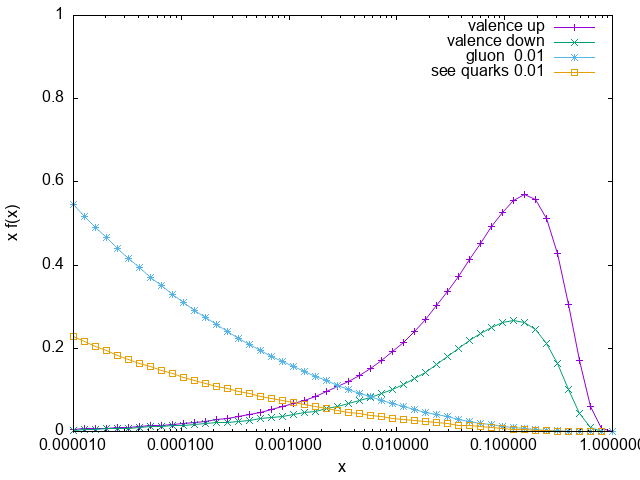
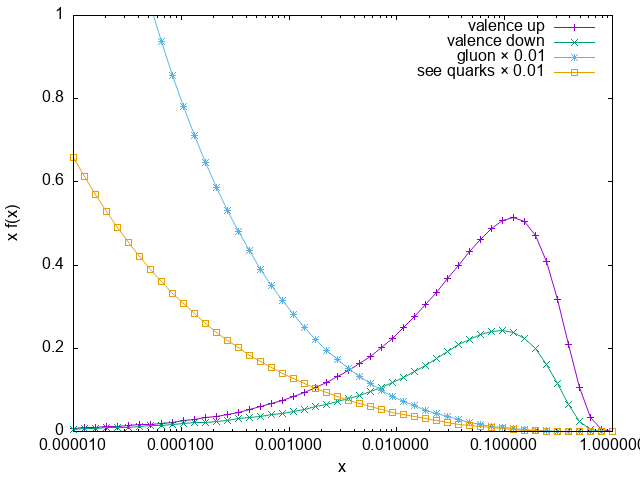
slightly better PDF plotting

diff --git a/org/pdf/README.tex b/org/pdf/README.tex
@@ -1,4 +1,4 @@
-% Created 2023-07-22 Sat 07:57
+% Created 2023-07-22 Sat 15:09
 % Intended LaTeX compiler: pdflatex
 \documentclass[11pt]{article}
 \usepackage[utf8]{inputenc}
@@ -33,11 +33,11 @@
 
 
 \section{Introduction}
-\label{sec:orgfdc5665}
+\label{sec:orgdfdd831}
 We will call the \href{https://lhapdf.hepforge.org/}{LHAPDF} library through python to evaluate parton distribution functions and play around with them a bit.
 
 \section{Evaluating PDFs}
-\label{sec:org5d13c16}
+\label{sec:orgb667dd7}
 Let's have a look at one specific PDF set \texttt{PDF4LHC21\_40}
 
 \begin{minted}[frame=lines,fontsize=\scriptsize]{python}
@@ -74,7 +74,7 @@ return res
 
 
 \section{The quantum numbers of the proton}
-\label{sec:org91556e0}
+\label{sec:orgcb00eb9}
 The qunatum numbers of the proton are determined by the valence quarks, p=(uud).
 Given that PDFs are \emph{number densities} for the constituent partons, the following flavour sum rules hold:
 \begin{align}
@@ -121,7 +121,7 @@ b & -0.0008936063440324684\\[0pt]
 \end{center}
 
 \section{Momentum sum rules}
-\label{sec:org6d6b39a}
+\label{sec:org1ed66b7}
 The parton \(a\) carries a momentum fraction \(x_a\) of the parent hadron, \(p_a^\mu=x_a\,P^\mu\).
 Therefore, the momentum density associated witht that parton is given by \$x\textsubscript{a$\backslash$,f}\textsubscript{a\(\vert{}\) H}(x\textsubscript{a}).
 Since the sum over all parton momenta must sum back up to the parent hadron one, the PDF sets satisfy a \emph{momentum sum rule} (in \(\overline{\text{MS}}\)):
